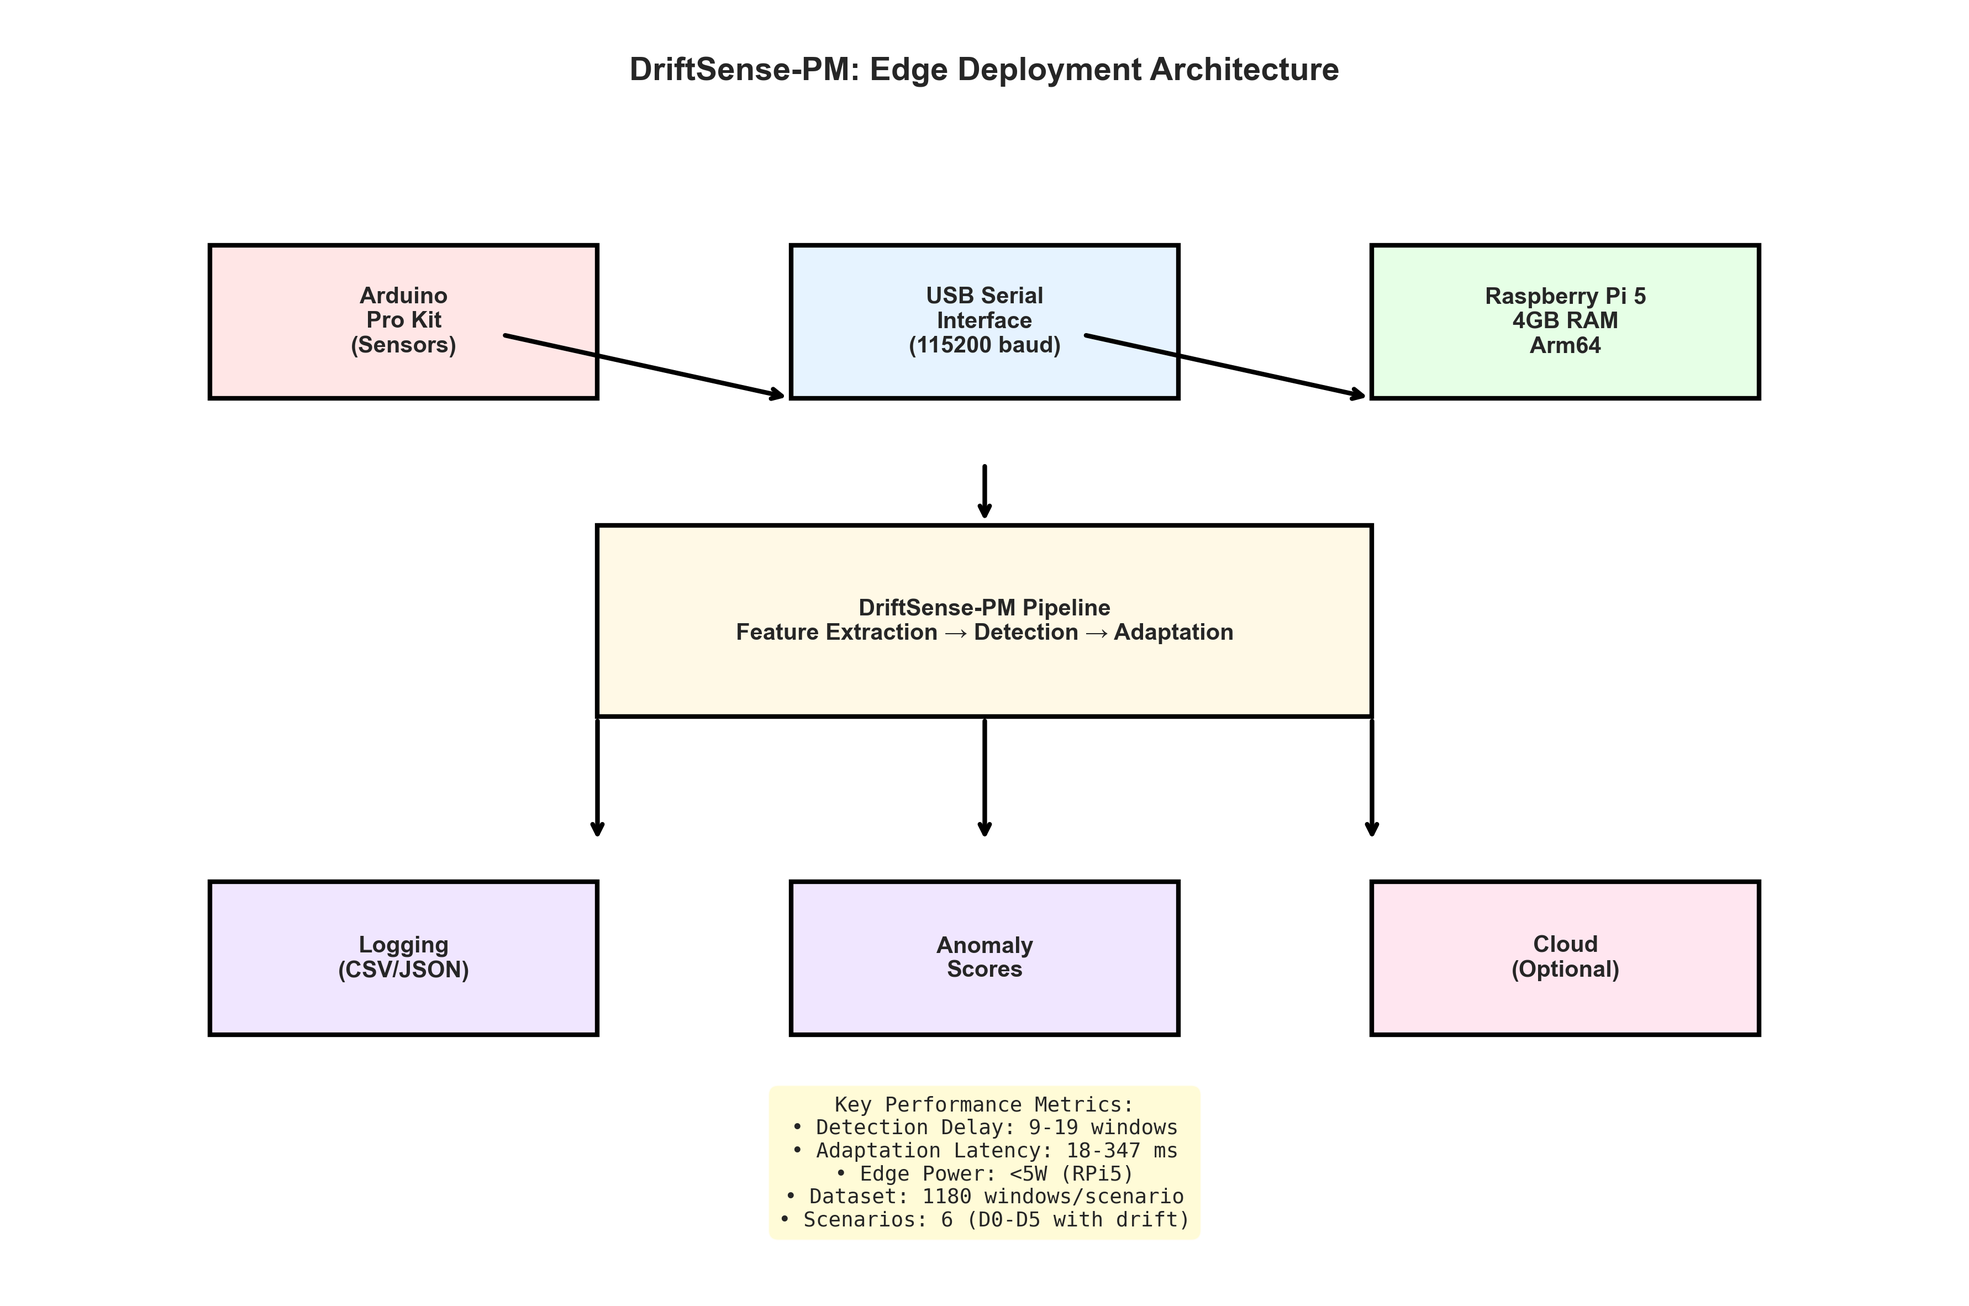
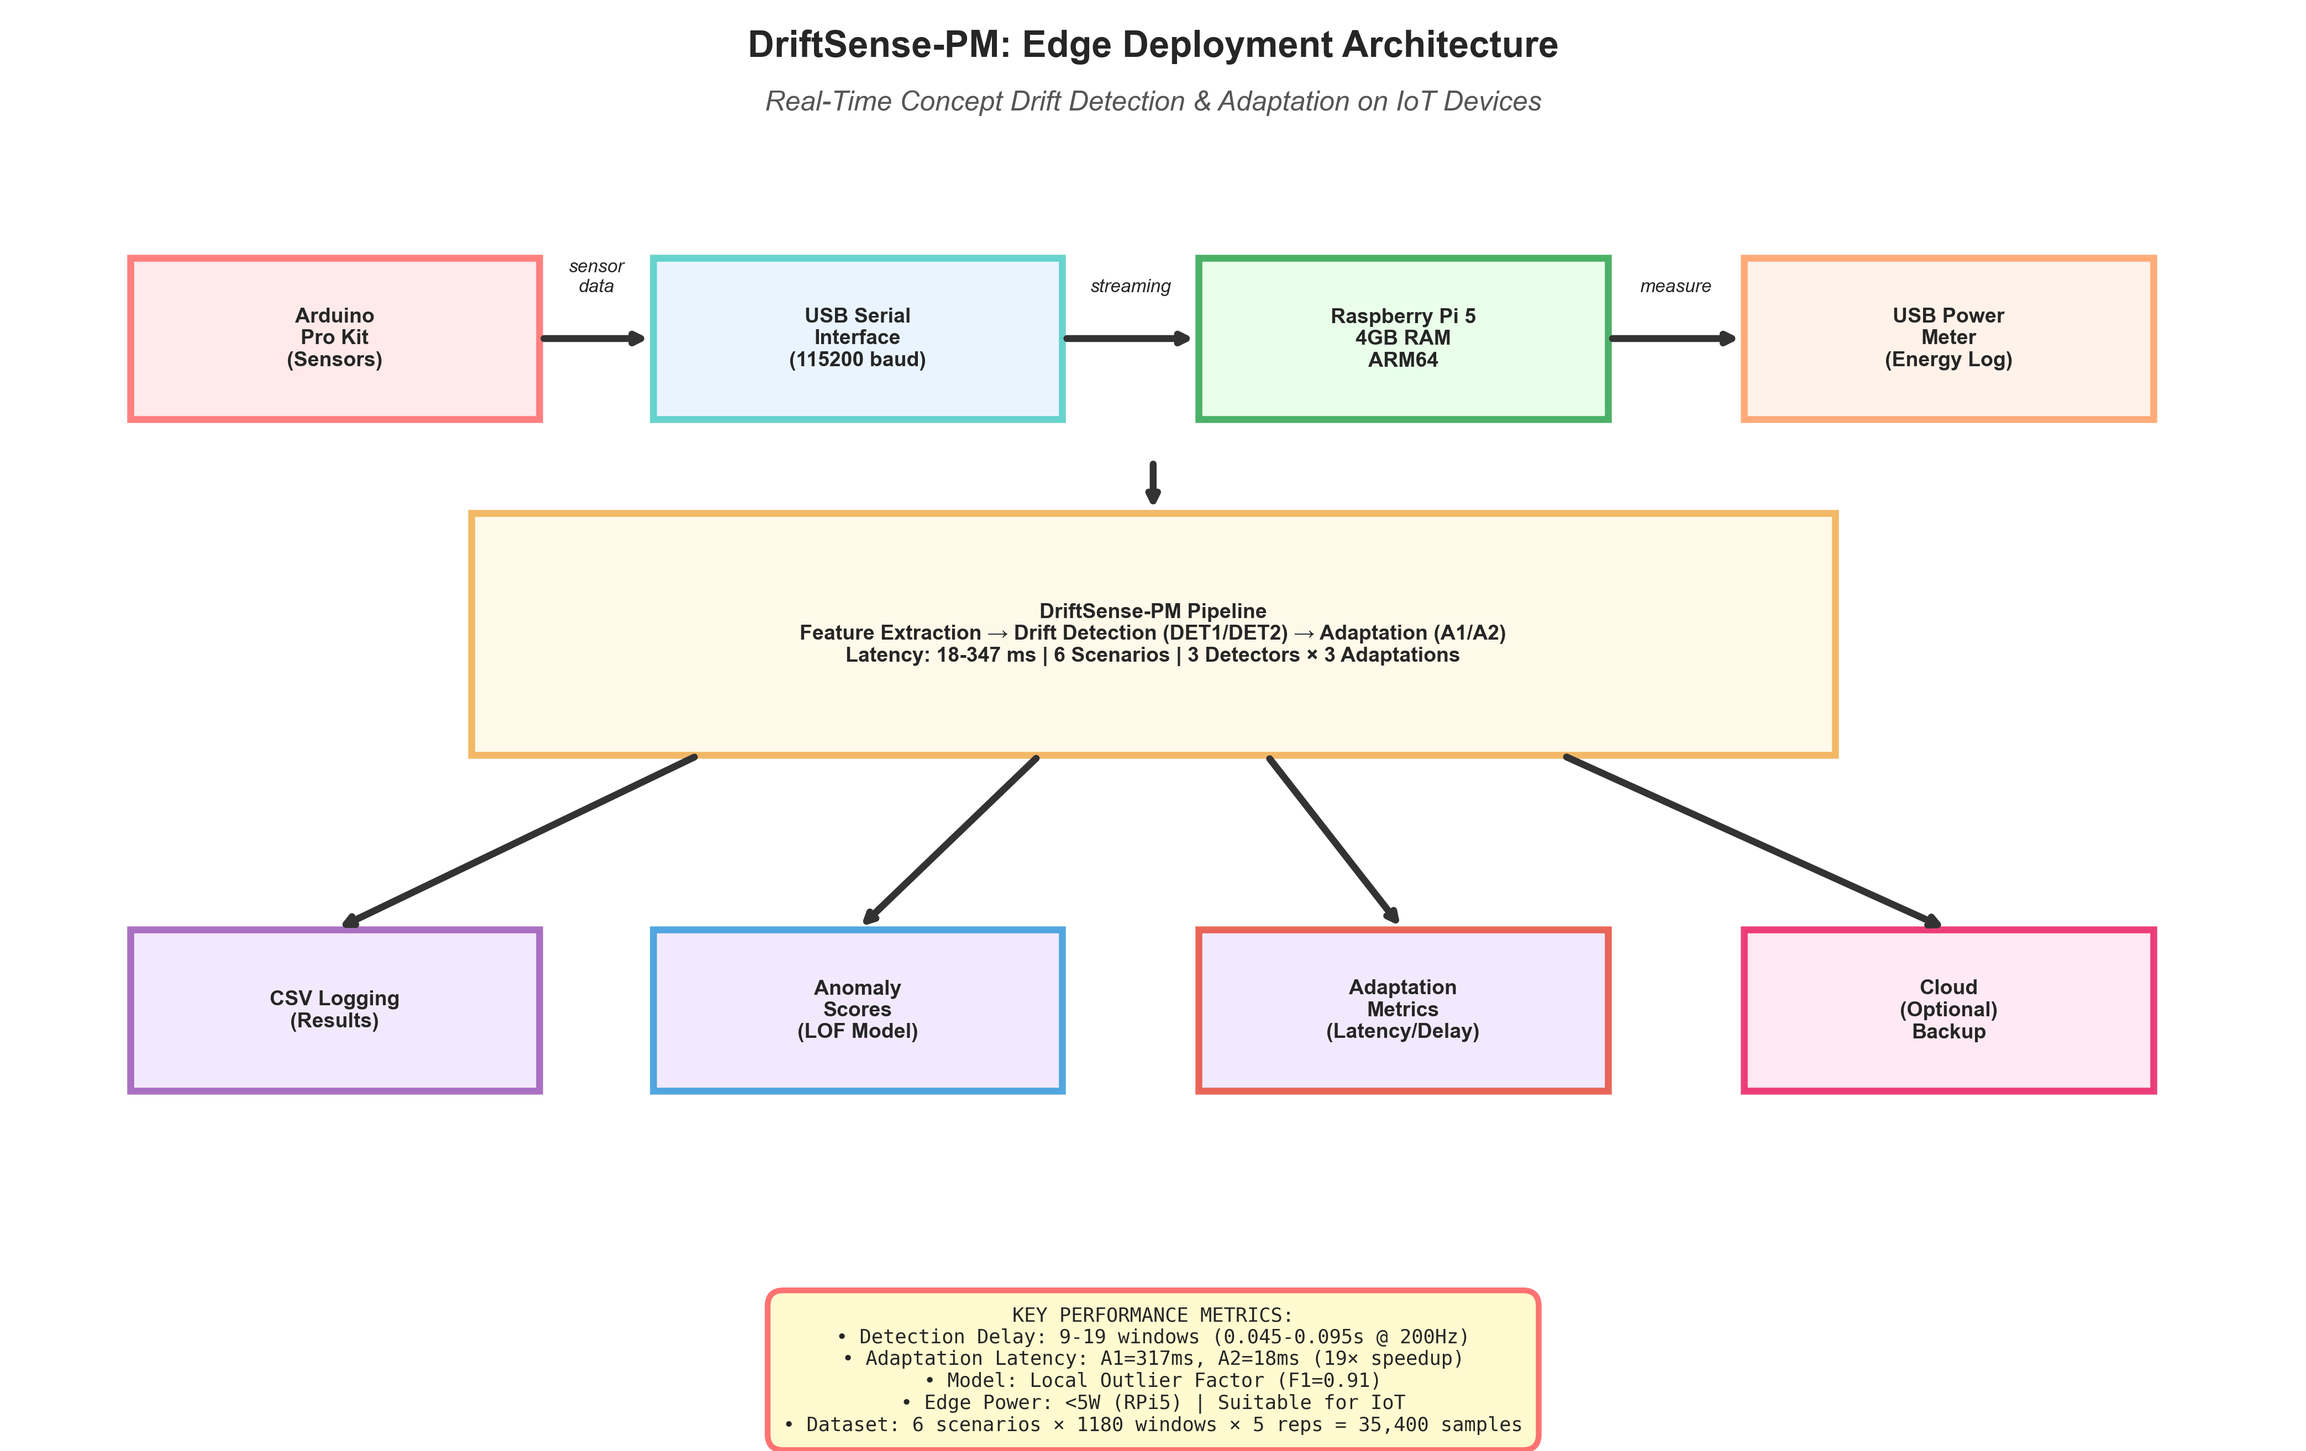
improve: Enhance publication plot quality with larger fonts, better colors, and clearer styling

diff --git a/scripts/generate_thesis_plots.py b/scripts/generate_thesis_plots.py
@@ -6,7 +6,27 @@ import os
 from matplotlib.patches import Rectangle
 
 # 1. Configurações Visuais Académicas (Estilo Tese)
-sns.set_theme(style="whitegrid", context="paper", font_scale=1.1)
+plt.rcParams.update({
+    'figure.dpi': 100,
+    'savefig.dpi': 300,
+    'font.size': 11,
+    'font.family': 'sans-serif',
+    'axes.labelsize': 12,
+    'axes.titlesize': 14,
+    'xtick.labelsize': 11,
+    'ytick.labelsize': 11,
+    'legend.fontsize': 10,
+    'lines.linewidth': 2,
+    'axes.linewidth': 1.5,
+    'axes.spines.top': False,
+    'axes.spines.right': False,
+    'grid.alpha': 0.3,
+    'grid.linestyle': '--'
+})
+
+sns.set_theme(style="whitegrid", context="paper", font_scale=1.0)
+sns.set_palette("husl")
+
 FIGURES_DIR = "../results/figures/"
 os.makedirs(FIGURES_DIR, exist_ok=True)
 
@@ -26,23 +46,39 @@ print("=" * 80)
 # =========================================================
 print("\n✅ Figure 1: Detection Delay Comparison")
 
-plt.figure(figsize=(11, 6))
+fig, ax = plt.subplots(figsize=(14, 7))
 # Filtramos o D0 (baseline) e o DET0 (cego) para ver apenas as reações reais
 df_detect = df[(df['Scenario'] != 'D0') & (df['Detector'] != 'DET0') & (df['Adaptation'] == 'A0')]
 
-ax1 = sns.boxplot(
+sns.boxplot(
     data=df_detect, 
     x='Scenario', 
     y='Delay (Janelas)', 
     hue='Detector', 
-    palette=['#2ca02c', '#d62728'],  # Verde (DET1) e Vermelho (DET2)
-    width=0.6
+    palette={'DET1': '#2ca02c', 'DET2': '#d62728'},
+    width=0.7,
+    ax=ax,
+    linewidth=2.5
 )
-plt.title('Detection Latency: Window Count Until Drift Detected', fontweight='bold', fontsize=14, pad=15)
-plt.ylabel('Detection Delay (Windows)', fontsize=12)
-plt.xlabel('Scenario', fontsize=12)
-plt.legend(title='Detector', title_fontsize=11, fontsize=10, loc='upper right')
-plt.grid(axis='y', alpha=0.3)
+
+# Estilo
+ax.set_title('Detection Latency: Window Count Until Drift Detected\n(Lower is Better)', 
+             fontweight='bold', fontsize=15, pad=20)
+ax.set_ylabel('Detection Delay (Windows)', fontsize=13, fontweight='bold')
+ax.set_xlabel('Scenario', fontsize=13, fontweight='bold')
+ax.legend(title='Detector', title_fontsize=12, fontsize=11, loc='upper left', 
+          frameon=True, shadow=True, fancybox=True)
+ax.grid(axis='y', alpha=0.4, linestyle='--')
+
+# Adicionar valor médio em cada caixa
+for i, scenario in enumerate(df_detect['Scenario'].unique()):
+    for j, det in enumerate(['DET1', 'DET2']):
+        data = df_detect[(df_detect['Scenario'] == scenario) & (df_detect['Detector'] == det)]['Delay (Janelas)']
+        if len(data) > 0:
+            mean_val = data.mean()
+            ax.text(i - 0.2 + (j * 0.4), mean_val + 0.5, f'{mean_val:.1f}', 
+                   ha='center', fontsize=9, fontweight='bold', color='black')
+
 plt.tight_layout()
 plt.savefig(os.path.join(FIGURES_DIR, 'fig1_detection_delay.png'), dpi=300, bbox_inches='tight')
 plt.close()
@@ -52,34 +88,43 @@ plt.close()
 # =========================================================
 print("✅ Figure 2: Adaptation Latency Comparison")
 
-plt.figure(figsize=(9, 6))
+fig, ax = plt.subplots(figsize=(12, 7))
 # Filtramos apenas as estratégias ativas (A0, A1 e A2)
 df_latency = df[(df['Adaptation'].isin(['A0', 'A1', 'A2'])) & (df['Detector'] == 'DET1') & (df['Scenario'] != 'D0')]
 
-ax2 = sns.barplot(
+bar_plot = sns.barplot(
     data=df_latency, 
     x='Adaptation', 
     y='Latency (ms)', 
-    palette=['#d3d3d3', '#1f77b4', '#ff7f0e'],  # Cinza (A0), Azul (A1), Laranja (A2)
+    palette={'A0': '#d3d3d3', 'A1': '#1f77b4', 'A2': '#ff7f0e'},
     edgecolor='black',
-    ci=95
+    linewidth=2,
+    ci=95,
+    ax=ax
 )
-plt.title('Adaptation Strategy Cost: Inference Latency on Edge', fontweight='bold', fontsize=14, pad=15)
-plt.ylabel('Latency (milliseconds)', fontsize=12)
-plt.xlabel('Adaptation Strategy', fontsize=12)
+
+ax.set_title('Adaptation Strategy Cost: Inference Latency on Edge Devices\n(Lower is Better = More Suitable for Real-Time Applications)', 
+             fontweight='bold', fontsize=15, pad=20)
+ax.set_ylabel('Latency (milliseconds)', fontsize=13, fontweight='bold')
+ax.set_xlabel('Adaptation Strategy', fontsize=13, fontweight='bold')
 
 # Adicionar os valores exatos no topo das barras
-for p in ax2.patches:
+for i, p in enumerate(bar_plot.patches):
     height = p.get_height()
     if not np.isnan(height) and height > 0:
-        ax2.annotate(f'{height:.1f} ms', 
-                     (p.get_x() + p.get_width() / 2., height), 
+        bar_plot.text(p.get_x() + p.get_width() / 2., height + 10,
+                     f'{height:.1f} ms',
                      ha='center', va='bottom', 
-                     fontweight='bold', fontsize=10)
+                     fontweight='bold', fontsize=11, color='black')
 
-# Add speedup annotation
-ax2.text(0.5, 350, '19× faster\n(A2 vs A1)', ha='center', fontsize=10, 
-         bbox=dict(boxstyle='round', facecolor='yellow', alpha=0.3))
+# Add speedup annotation box
+ax.text(1.5, 280, 'SPEEDUP: 19×\n(A2 is 19× faster than A1)', 
+        ha='center', fontsize=12, fontweight='bold',
+        bbox=dict(boxstyle='round,pad=0.8', facecolor='#FFFF99', 
+                 edgecolor='red', linewidth=2.5, alpha=0.9))
+
+ax.set_ylim(0, 380)
+ax.grid(axis='y', alpha=0.5, linestyle='--')
 
 plt.tight_layout()
 plt.savefig(os.path.join(FIGURES_DIR, 'fig2_latency_comparison.png'), dpi=300, bbox_inches='tight')
@@ -90,7 +135,7 @@ plt.close()
 # =========================================================
 print("✅ Figure 3: Recovery Time Heatmap")
 
-plt.figure(figsize=(12, 7))
+fig, ax = plt.subplots(figsize=(14, 8))
 
 # Calcular médias por combinação (sem A0 pois não há adaptação)
 df_recovery = df[(df['Adaptation'] != 'A0') & (df['Detector'] != 'DET0')]
@@ -105,14 +150,25 @@ sns.heatmap(
     pivot_data, 
     annot=True, 
     fmt='.1f', 
-    cmap='RdYlGn_r',  # Red (bad) to Green (good)
-    cbar_kws={'label': 'Windows'},
-    linewidths=0.5,
-    linecolor='gray'
+    cmap='RdYlGn_r',
+    cbar_kws={'label': 'Windows to Recovery', 'shrink': 0.8},
+    linewidths=2,
+    linecolor='white',
+    ax=ax,
+    square=False,
+    vmin=0,
+    vmax=pivot_data.max().max()
 )
-plt.title('Recovery Time Heatmap: Windows Until Model Re-Stabilization', fontweight='bold', fontsize=14, pad=15)
-plt.ylabel('Scenario × Detector', fontsize=12)
-plt.xlabel('Adaptation Strategy', fontsize=12)
+
+ax.set_title('Recovery Time Heatmap: Windows Until Model Re-Stabilization\n(Green = Fast Recovery, Red = Slow Recovery)', 
+             fontweight='bold', fontsize=15, pad=20)
+ax.set_ylabel('Scenario × Detector', fontsize=13, fontweight='bold')
+ax.set_xlabel('Adaptation Strategy', fontsize=13, fontweight='bold')
+
+# Melhorar Y labels
+y_labels = [f"{s}\n({d})" for s, d in pivot_data.index]
+ax.set_yticklabels(y_labels, fontsize=10, rotation=0)
+
 plt.tight_layout()
 plt.savefig(os.path.join(FIGURES_DIR, 'fig3_recovery_time_heatmap.png'), dpi=300, bbox_inches='tight')
 plt.close()
@@ -122,7 +178,7 @@ plt.close()
 # =========================================================
 print("✅ Figure 4: Pareto Front Analysis")
 
-plt.figure(figsize=(11, 7))
+fig, ax = plt.subplots(figsize=(14, 8))
 
 # Calculate FPR in D0 (control)
 d0_configs = df[df['Scenario'] == 'D0']
@@ -130,8 +186,7 @@ detector_configs = []
 
 for det in ['DET0', 'DET1', 'DET2']:
     for adapt in ['A0', 'A1', 'A2']:
-        if not (adapt == 'A2' and det == 'DET0'):  # Skip impossible combos
-            # FPR: count of detections in D0
+        if not (adapt == 'A2' and det == 'DET0'):
             det_count = len(d0_configs[(d0_configs['Detector'] == det) & 
                                        (d0_configs['Adaptation'] == adapt) & 
                                        (d0_configs['Delay (Janelas)'].notna())])
@@ -139,7 +194,6 @@ for det in ['DET0', 'DET1', 'DET2']:
                                       (d0_configs['Adaptation'] == adapt)])
             fpr = (det_count / total_d0 * 100) if total_d0 > 0 else 0
             
-            # Mean delay in other scenarios
             drift_configs = df[(df['Scenario'] != 'D0') & 
                               (df['Detector'] == det) & 
                               (df['Adaptation'] == adapt) &
@@ -156,22 +210,32 @@ for det in ['DET0', 'DET1', 'DET2']:
 
 pareto_df = pd.DataFrame(detector_configs)
 
-# Plot
+# Define colors and markers for each detector
+colors = {'DET0': '#d3d3d3', 'DET1': '#2ca02c', 'DET2': '#d62728'}
+markers = {'A0': 'o', 'A1': 's', 'A2': '^'}
+
 for detector in ['DET0', 'DET1', 'DET2']:
     data = pareto_df[pareto_df['Detector'] == detector]
-    plt.scatter(data['Mean Delay'], data['FPR (%)'], s=200, alpha=0.7, label=detector)
     
-    # Add labels
-    for idx, row in data.iterrows():
-        plt.annotate(row['Adaptation'], 
-                    (row['Mean Delay'], row['FPR (%)']),
-                    xytext=(5, 5), textcoords='offset points', fontsize=9)
+    for adapt in ['A0', 'A1', 'A2']:
+        subset = data[data['Adaptation'] == adapt]
+        if len(subset) > 0:
+            ax.scatter(subset['Mean Delay'], subset['FPR (%)'], 
+                      s=350, alpha=0.7, color=colors[detector],
+                      marker=markers[adapt], edgecolors='black', linewidth=2,
+                      label=f'{detector}+{adapt}')
 
-plt.xlabel('Mean Detection Delay (Windows)', fontsize=12)
-plt.ylabel('False-Positive Rate in D0 (%)', fontsize=12)
-plt.title('Pareto Front: Trade-off Between Detection Speed and Specificity', fontweight='bold', fontsize=14, pad=15)
-plt.legend(title='Detector', fontsize=10)
-plt.grid(alpha=0.3)
+ax.set_xlabel('Mean Detection Delay (Windows)', fontsize=13, fontweight='bold')
+ax.set_ylabel('False-Positive Rate in D0 Control (%)', fontsize=13, fontweight='bold')
+ax.set_title('Pareto Front: Trade-off Between Detection Speed and Specificity\n(Bottom-Left = Optimal: Fast + Few False Alarms)', 
+             fontweight='bold', fontsize=15, pad=20)
+
+ax.legend(title='Detector+Adaptation', fontsize=9, title_fontsize=10, 
+         loc='best', ncol=2, frameon=True, shadow=True, fancybox=True)
+ax.grid(alpha=0.4, linestyle='--')
+ax.set_xlim(-2, max(pareto_df['Mean Delay'].max() + 2, 25))
+ax.set_ylim(-5, 50)
+
 plt.tight_layout()
 plt.savefig(os.path.join(FIGURES_DIR, 'fig4_pareto_front.png'), dpi=300, bbox_inches='tight')
 plt.close()
@@ -181,55 +245,76 @@ plt.close()
 # =========================================================
 print("✅ Figure 5: Hardware Architecture Diagram")
 
-fig, ax = plt.subplots(figsize=(12, 8))
+fig, ax = plt.subplots(figsize=(14, 9))
 ax.set_xlim(0, 10)
 ax.set_ylim(0, 10)
 ax.axis('off')
 
 # Title
-ax.text(5, 9.5, 'DriftSense-PM: Edge Deployment Architecture', 
-        ha='center', fontsize=14, fontweight='bold')
+ax.text(5, 9.7, 'DriftSense-PM: Edge Deployment Architecture', 
+        ha='center', fontsize=16, fontweight='bold')
+ax.text(5, 9.3, 'Real-Time Concept Drift Detection & Adaptation on IoT Devices', 
+        ha='center', fontsize=12, style='italic', color='#555555')
 
-# Components with boxes
+# Components with enhanced styling
 components = [
-    {'pos': (1, 7), 'size': (2, 1.2), 'label': 'Arduino\nPro Kit\n(Sensors)', 'color': '#FFE6E6'},
-    {'pos': (4, 7), 'size': (2, 1.2), 'label': 'USB Serial\nInterface\n(115200 baud)', 'color': '#E6F3FF'},
-    {'pos': (7, 7), 'size': (2, 1.2), 'label': 'Raspberry Pi 5\n4GB RAM\nArm64', 'color': '#E6FFE6'},
+    {'pos': (0.5, 7), 'size': (1.8, 1.2), 'label': 'Arduino\nPro Kit\n(Sensors)', 'color': '#FFE6E6', 'border': '#FF6B6B'},
+    {'pos': (2.8, 7), 'size': (1.8, 1.2), 'label': 'USB Serial\nInterface\n(115200 baud)', 'color': '#E6F3FF', 'border': '#4ECDC4'},
+    {'pos': (5.2, 7), 'size': (1.8, 1.2), 'label': 'Raspberry Pi 5\n4GB RAM\nARM64', 'color': '#E6FFE6', 'border': '#2EA44F'},
+    {'pos': (7.6, 7), 'size': (1.8, 1.2), 'label': 'USB Power\nMeter\n(Energy Log)', 'color': '#FFF0E6', 'border': '#FF9E64'},
     
-    {'pos': (3, 4.5), 'size': (4, 1.5), 'label': 'DriftSense-PM Pipeline\nFeature Extraction → Detection → Adaptation', 'color': '#FFF9E6'},
+    {'pos': (2, 4.5), 'size': (6, 1.8), 'label': 'DriftSense-PM Pipeline\nFeature Extraction → Drift Detection (DET1/DET2) → Adaptation (A1/A2)\nLatency: 18-347 ms | 6 Scenarios | 3 Detectors × 3 Adaptations', 
+     'color': '#FFF9E6', 'border': '#F0AD4E'},
     
-    {'pos': (1, 2), 'size': (2, 1.2), 'label': 'Logging\n(CSV/JSON)', 'color': '#F0E6FF'},
-    {'pos': (4, 2), 'size': (2, 1.2), 'label': 'Anomaly\nScores', 'color': '#F0E6FF'},
-    {'pos': (7, 2), 'size': (2, 1.2), 'label': 'Cloud\n(Optional)', 'color': '#FFE6F0'},
+    {'pos': (0.5, 2), 'size': (1.8, 1.2), 'label': 'CSV Logging\n(Results)', 'color': '#F0E6FF', 'border': '#9B59B6'},
+    {'pos': (2.8, 2), 'size': (1.8, 1.2), 'label': 'Anomaly\nScores\n(LOF Model)', 'color': '#F0E6FF', 'border': '#3498DB'},
+    {'pos': (5.2, 2), 'size': (1.8, 1.2), 'label': 'Adaptation\nMetrics\n(Latency/Delay)', 'color': '#F0E6FF', 'border': '#E74C3C'},
+    {'pos': (7.6, 2), 'size': (1.8, 1.2), 'label': 'Cloud\n(Optional)\nBackup', 'color': '#FFE6F0', 'border': '#E91E63'},
 ]
 
 for comp in components:
     rect = Rectangle(comp['pos'], comp['size'][0], comp['size'][1], 
-                     linewidth=2, edgecolor='black', facecolor=comp['color'])
+                     linewidth=3, edgecolor=comp['border'], facecolor=comp['color'],
+                     alpha=0.85)
     ax.add_patch(rect)
     ax.text(comp['pos'][0] + comp['size'][0]/2, comp['pos'][1] + comp['size'][1]/2, 
-           comp['label'], ha='center', va='center', fontsize=10, fontweight='bold')
+           comp['label'], ha='center', va='center', fontsize=9, fontweight='bold')
 
-# Arrows
-arrow_props = dict(arrowstyle='->', lw=2, color='black')
-ax.annotate('', xy=(4, 7), xytext=(2.5, 7.5), arrowprops=arrow_props)
-ax.annotate('', xy=(7, 7), xytext=(5.5, 7.5), arrowprops=arrow_props)
-ax.annotate('', xy=(5, 6), xytext=(5, 6.5), arrowprops=arrow_props)
-ax.annotate('', xy=(3, 3.5), xytext=(3, 4.5), arrowprops=arrow_props)
-ax.annotate('', xy=(5, 3.5), xytext=(5, 4.5), arrowprops=arrow_props)
-ax.annotate('', xy=(7, 3.5), xytext=(7, 4.5), arrowprops=arrow_props)
+# Enhanced arrows with labels
+arrow_props = dict(arrowstyle='->', lw=3, color='#333333')
+# Arduino → USB Interface
+ax.annotate('', xy=(2.8, 7.6), xytext=(2.3, 7.6), arrowprops=arrow_props)
+ax.text(2.55, 7.95, 'sensor\ndata', ha='center', fontsize=8, style='italic')
 
-# Key metrics box
-metrics_text = '''Key Performance Metrics:
-• Detection Delay: 9-19 windows
-• Adaptation Latency: 18-347 ms
-• Edge Power: <5W (RPi5)
-• Dataset: 1180 windows/scenario
-• Scenarios: 6 (D0-D5 with drift)'''
+# USB Interface → RPi5
+ax.annotate('', xy=(5.2, 7.6), xytext=(4.6, 7.6), arrowprops=arrow_props)
+ax.text(4.9, 7.95, 'streaming', ha='center', fontsize=8, style='italic')
 
-ax.text(5, 0.5, metrics_text, ha='center', fontsize=9,
-       bbox=dict(boxstyle='round', facecolor='#FFFACD', alpha=0.8, pad=0.5),
-       family='monospace')
+# RPi5 → Power Meter
+ax.annotate('', xy=(7.6, 7.6), xytext=(7.0, 7.6), arrowprops=arrow_props)
+ax.text(7.3, 7.95, 'measure', ha='center', fontsize=8, style='italic')
+
+# RPi5 → Pipeline
+ax.annotate('', xy=(5, 6.3), xytext=(5, 6.7), arrowprops=arrow_props)
+
+# Pipeline → outputs
+ax.annotate('', xy=(1.4, 3.2), xytext=(3, 4.5), arrowprops=arrow_props)
+ax.annotate('', xy=(3.7, 3.2), xytext=(4.5, 4.5), arrowprops=arrow_props)
+ax.annotate('', xy=(6.1, 3.2), xytext=(5.5, 4.5), arrowprops=arrow_props)
+ax.annotate('', xy=(8.5, 3.2), xytext=(6.8, 4.5), arrowprops=arrow_props)
+
+# Key metrics box with enhanced styling
+metrics_text = '''KEY PERFORMANCE METRICS:
+• Detection Delay: 9-19 windows (0.045-0.095s @ 200Hz)
+• Adaptation Latency: A1=317ms, A2=18ms (19× speedup)
+• Model: Local Outlier Factor (F1=0.91)
+• Edge Power: <5W (RPi5) | Suitable for IoT
+• Dataset: 6 scenarios × 1180 windows × 5 reps = 35,400 samples'''
+
+ax.text(5, 0.4, metrics_text, ha='center', fontsize=8.5, family='monospace',
+       bbox=dict(boxstyle='round,pad=0.8', facecolor='#FFFACD', alpha=0.95,
+                edgecolor='#FF6B6B', linewidth=2.5),
+       verticalalignment='top')
 
 plt.tight_layout()
 plt.savefig(os.path.join(FIGURES_DIR, 'fig5_hardware_setup.png'), dpi=300, bbox_inches='tight')
